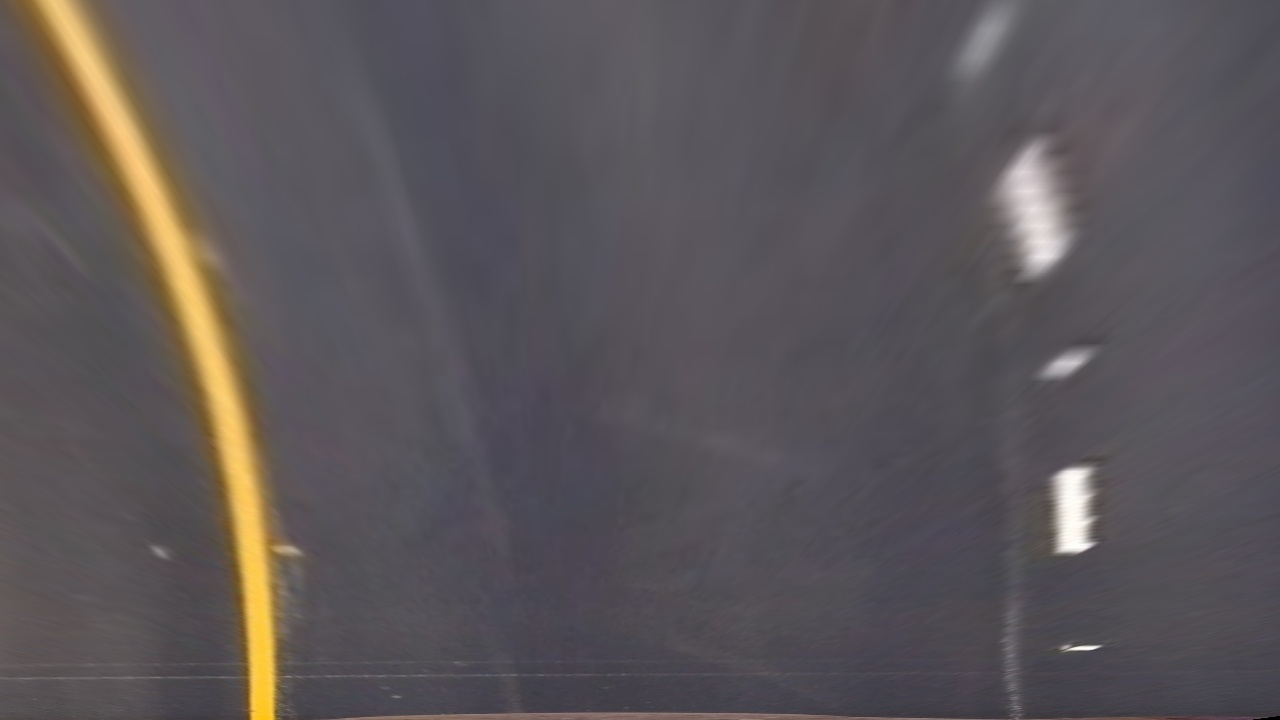
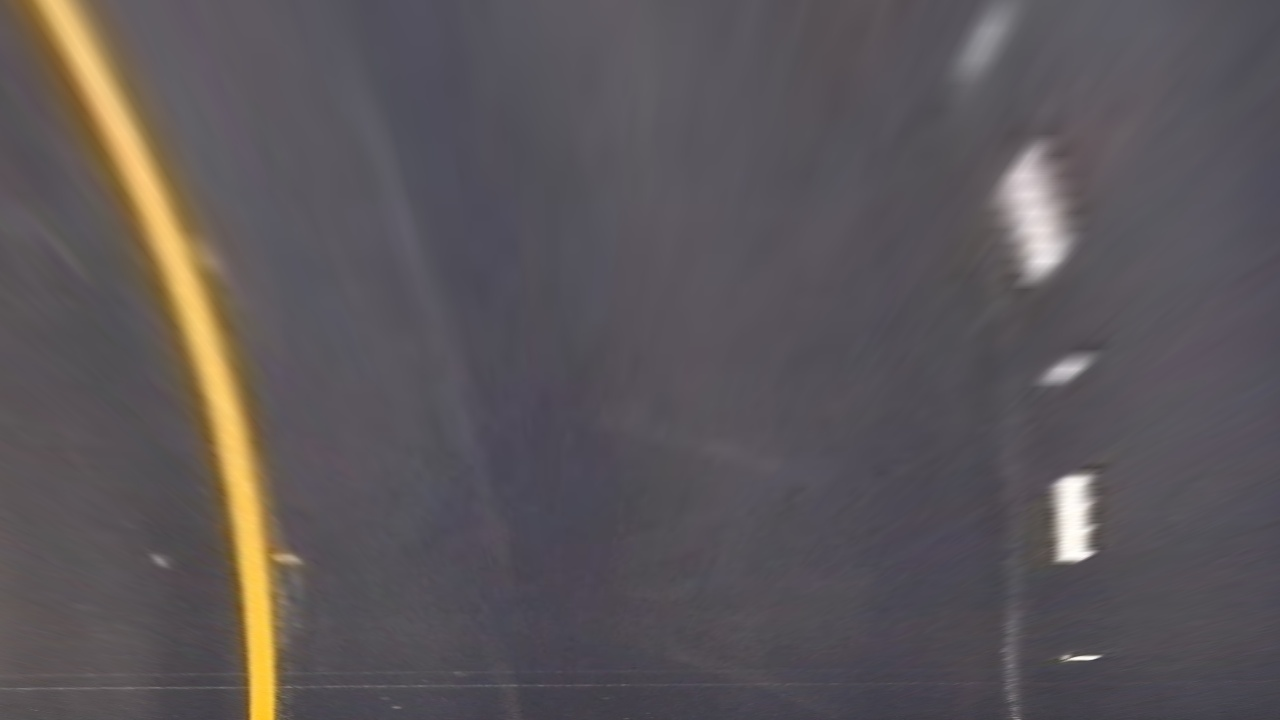
Remove magic numbers

diff --git a/lane_detector.py b/lane_detector.py
@@ -1,71 +1,42 @@
 import cv2
 import numpy as np
 import os
-
-
-class BufferedPolyFit:
-    def __init__(self, order, size=5, max_skip=3):
-        self.order = order
-        self.size = size
-        self.max_skip = max_skip
-        self.x_buffer = []
-        self.y_buffer = []
-        self.skipped = 0
-    
-    def get_buffered_fit(self):
-        if not len(self.x_buffer):
-            return None
-        
-        return np.poly1d(np.polyfit(
-            np.concatenate(self.x_buffer),
-            np.concatenate(self.y_buffer),
-            self.order,
-            #w=sum([[i+1]*len(self.x_buffer[i]) for i in range(len(self.x_buffer))], [])
-        ))
-
-    def fit(self, x, y):
-        current_fit = self.get_buffered_fit()
-
-        if not len(x):
-            return current_fit
-        
-        self.x_buffer.append(x)
-        self.y_buffer.append(y)
-
-        if len(self.x_buffer) > self.size:
-            self.x_buffer.pop(0)
-            self.y_buffer.pop(0)
-
-        return self.get_buffered_fit()
+from buffered_poly_fit import BufferedPolyFit
 
 
 class LaneDetector:
-    def __init__(self, camera, perspective, hood_size=15):
+    def __init__(self, camera, perspective, color_mask, fit_sample_size=5000, y_check_steps=15, max_x_std=100):
         self.camera = camera
         self.perspective = perspective
         self.left_poly = BufferedPolyFit(2)
         self.right_poly = BufferedPolyFit(2)
-        self.hood_size = hood_size
+        self.fit_sample_size = fit_sample_size
+        self.color_mask = color_mask
+        self.y_check_steps = y_check_steps
+        self.max_x_std = max_x_std
 
     def apply_color_mask(self, img):
-        gray = cv2.cvtColor(img, cv2.COLOR_BGR2GRAY)
         hsv = cv2.cvtColor(img, cv2.COLOR_BGR2HSV)
+        gray = cv2.cvtColor(img, cv2.COLOR_BGR2GRAY)
+        mask = np.zeros(img.shape[:2], np.uint8)
 
-        mask_yellow = cv2.inRange(hsv, np.array([20, 50, 75]), np.array([110, 255, 255]))
-        mask_white = cv2.inRange(gray, 200, 255)
-        mask_yw = cv2.bitwise_or(mask_white, mask_yellow)
+        for color_range in self.color_mask:
+            mask = cv2.bitwise_or(mask, cv2.inRange(hsv, color_range[0], color_range[1]))
         
-        return cv2.bitwise_and(gray, mask_yw)
+        return cv2.bitwise_and(gray, mask)
 
     def get_lane_points(self, img, offset=0):
         y, x = np.nonzero(img)
-        i = np.random.choice(len(x), 2000)
+
+        # Sample fewer points without replacement to improve processing speed
+        i = np.random.choice(len(x), self.fit_sample_size)
         y = y[i]
         x = x[i]        
         
+        # Keep points where deviation along x-axis is not too big
         keep = [np.array([], np.uint8), np.array([], np.uint8)]
         discard = [np.array([], np.uint8), np.array([], np.uint8)]
-        step = img.shape[0] // 10
+        step = img.shape[0] // self.y_check_steps
 
         for row in range(0, img.shape[0], step):
             in_row = np.where((y >= row) & (y <= row + step))
@@ -73,7 +44,7 @@ class LaneDetector:
             if not len(in_row):
                 continue
 
-            if np.std(x[in_row]) < 100:
+            if np.std(x[in_row]) < self.max_x_std:
                 keep[0] = np.concatenate((keep[0], y[in_row]))
                 keep[1] = np.concatenate((keep[1], x[in_row]))
             else:
@@ -96,8 +67,9 @@ class LaneDetector:
         left_line = self.left_poly.fit(left[0], left[1])
         right_line = self.right_poly.fit(right[0], right[1])
         
+        # Draw lane
         if left_line and right_line:
-            for y in range(img.shape[0] - self.hood_size):
+            for y in range(img.shape[0]):
                 l, r = int(left_line(y)), int(right_line(y))
                 cv2.line(output, (l, y), (r, y), (0, 255, 0), 1)
 
@@ -132,9 +104,8 @@ class LaneDetector:
         if save_images:
             cv2.imwrite("%s/3-birds-eye-view.jpg" % save_images, img)
 
-        # Apply lane color mask and crop car hood
+        # Apply lane color mask
         img = self.apply_color_mask(img)
-        img[img.shape[0] - self.hood_size:,:] = 0
 
         if save_images:
             cv2.imwrite("%s/4-color-mask.jpg" % save_images, img)

diff --git a/buffered_poly_fit.py b/buffered_poly_fit.py
@@ -1,0 +1,52 @@
+import numpy as np
+
+
+class BufferedPolyFit:
+    def __init__(self, order, size=5, max_skip=3):
+        self.order = order
+        self.size = size
+        self.max_skip = max_skip
+        self.x_buffer = []
+        self.y_buffer = []
+        self.skipped = 0
+        self.coeffs = None
+    
+    def get_buffered_fit(self):
+        if not len(self.x_buffer):
+            return None
+        
+        self.coeffs = np.polyfit(
+            np.concatenate(self.x_buffer),
+            np.concatenate(self.y_buffer),
+            self.order,
+            #w=sum([[i+1]*len(self.x_buffer[i]) for i in range(len(self.x_buffer))], [])
+        )
+        
+        return np.poly1d(self.coeffs)
+
+    def fit(self, x, y):
+        current_fit = self.get_buffered_fit()
+
+        if not len(x):
+            return current_fit
+        
+        self.x_buffer.append(x)
+        self.y_buffer.append(y)
+
+        if len(self.x_buffer) > self.size:
+            self.x_buffer.pop(0)
+            self.y_buffer.pop(0)
+
+        return self.get_buffered_fit()
+    
+    def get_curvature(self, x):
+        if self.coeffs == None:
+            return 0
+        
+        d = 0
+        dd = 0
+
+        for i in range(1, self.order):
+            pass
+        
+        return (1 + self.coeffs[2])

diff --git a/main.py b/main.py
@@ -22,14 +22,21 @@ for result in results:
     cv2.imwrite("OUTPUT/calibration/1-corners%s.jpg" % file_index, result["img"])
     cv2.imwrite("OUTPUT/calibration/2-corners-undistorted-%s.jpg" % file_index, camera.undistort(result["img"]))
 
+# HSV color mask
+color_mask = (
+    ((20, 50, 75), (110, 255, 255)), # yellow lines
+    ((0, 0, 200), (255, 255, 255)) # white lines
+)
+
 # Process images
 for filename in glob.glob("raw_images/*.jpg"):
-    detector = LaneDetector(camera, perspective)
+    detector = LaneDetector(camera, perspective, color_mask)
     detector.run(cv2.imread(filename), "OUTPUT/test%s" % filename[-5])
 
 # Process video
 cap = cv2.VideoCapture("road.mp4")
-detector = LaneDetector(camera, perspective)
+detector = LaneDetector(camera, perspective, color_mask)
+i = 0
 
 while cap.isOpened():
     ret, frame = cap.read()
@@ -37,7 +44,11 @@ while cap.isOpened():
     if not ret:
         break
 
-    key = cv2.waitKey(25)
+    i += 1
+    #if i < 1000:
+    #    continue
+
+    key = cv2.waitKey(5)
 
     if key & 0xFF == ord("s"):
         frame = detector.run(frame, "OUTPUT/frame")

diff --git a/perspective.py b/perspective.py
@@ -5,7 +5,7 @@ import numpy as np
 class Perspective:
     def __init__(self):
         src = np.float32([ [613, 445], [689, 445], [895, 553], [472, 553] ])
-        dst = np.float32([ [225, -70], [1280 - 225, -70], [1280 - 225, 720 - 70], [225, 720 - 70] ])
+        dst = np.float32([ [225, -70], [1280 - 225, -70], [1280 - 225, 720 - 60], [225, 720 - 60] ])
 
         self.M = cv2.getPerspectiveTransform(src, dst)
         self.M_i = cv2.getPerspectiveTransform(dst, src)

diff --git a/test.py b/test.py
@@ -26,3 +26,5 @@ hist
 
 #%%
 hist[a]
+
+#%%
